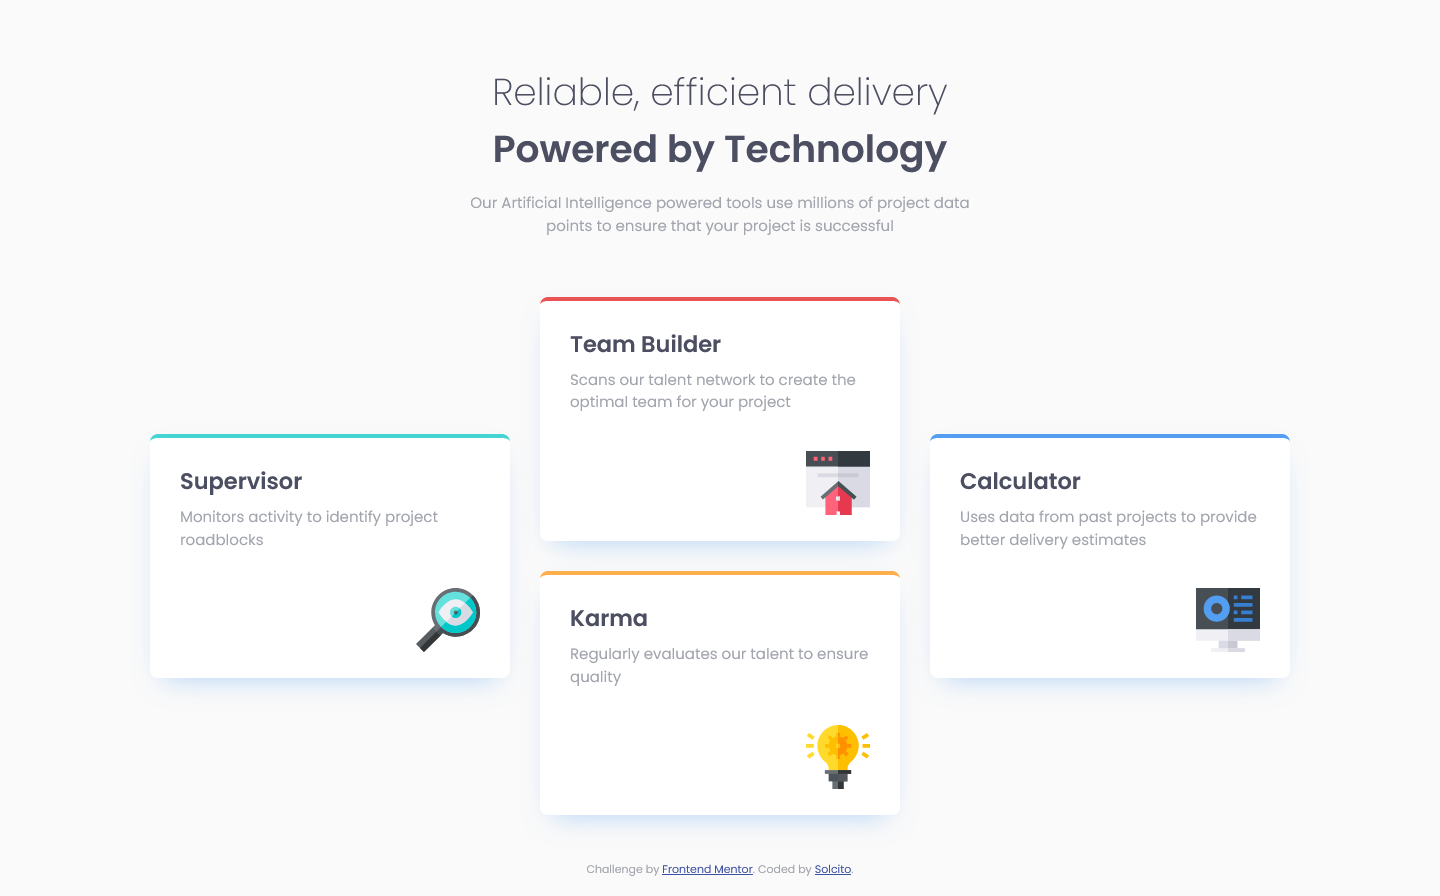
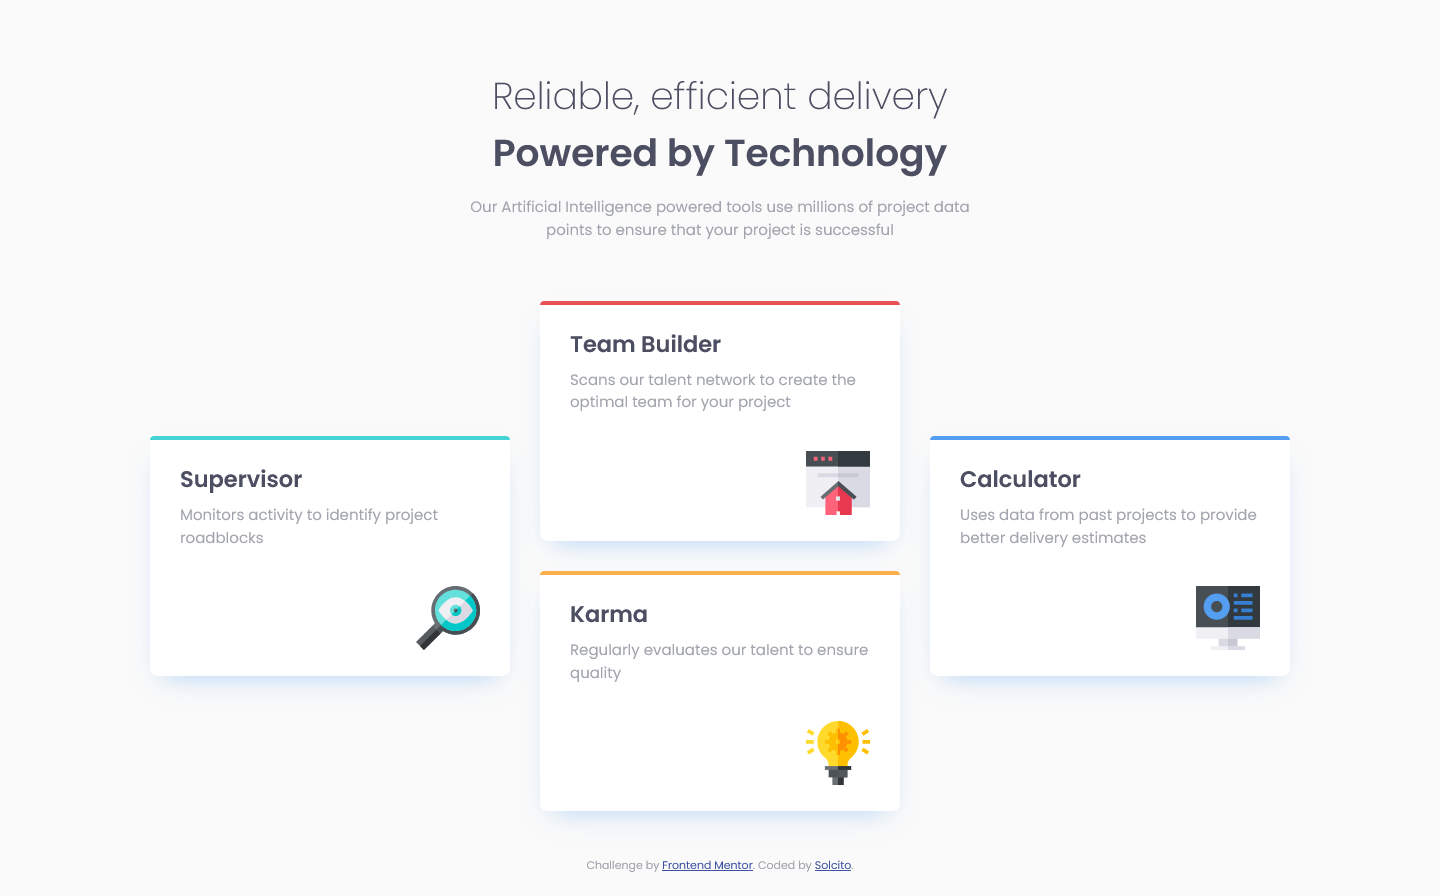
card style updated

diff --git a/style.css b/style.css
@@ -123,6 +123,7 @@ header > h1 {
 }
 
 .card {
+  position: relative;
   text-align: left;
   border-radius: 8px;
   padding: 1.75rem 2rem;
@@ -147,20 +148,48 @@ header > h1 {
   align-self: flex-end;
 }
 
-.card:is(#cyan) {
-  border-top: 4px solid var(--clr-cyan);
+.card:is(#cyan)::before {
+  position: absolute;
+  content: '';
+  height: 4px;
+  width: 100%;
+  top: 0;
+  left: 0;
+  border-radius: 8px 8px 0 0;
+  background-color: var(--clr-cyan);
 }
 
-.card:is(#red) {
-  border-top: 4px solid var(--clr-red);
+.card:is(#red)::before {
+  position: absolute;
+  content: '';
+  height: 4px;
+  width: 100%;
+  top: 0;
+  left: 0;
+  border-radius: 8px 8px 0 0;
+  background-color: var(--clr-red);
 }
 
-.card:is(#orange) {
-  border-top: 4px solid var(--clr-orange);
+.card:is(#orange)::before {
+  position: absolute;
+  content: '';
+  height: 4px;
+  width: 100%;
+  top: 0;
+  left: 0;
+  border-radius: 8px 8px 0 0;
+  background-color: var(--clr-orange);
 }
 
-.card:is(#blue) {
-  border-top: 4px solid var(--clr-blue);
+.card:is(#blue)::before {
+  position: absolute;
+  content: '';
+  height: 4px;
+  width: 100%;
+  top: 0;
+  left: 0;
+  border-radius: 8px 8px 0 0;
+  background-color: var(--clr-blue);
 }
 
 .card-title {
